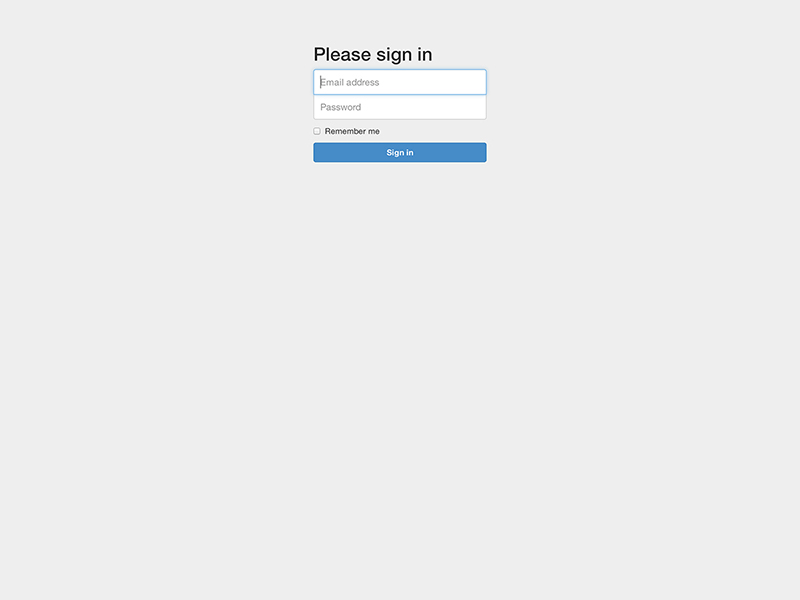
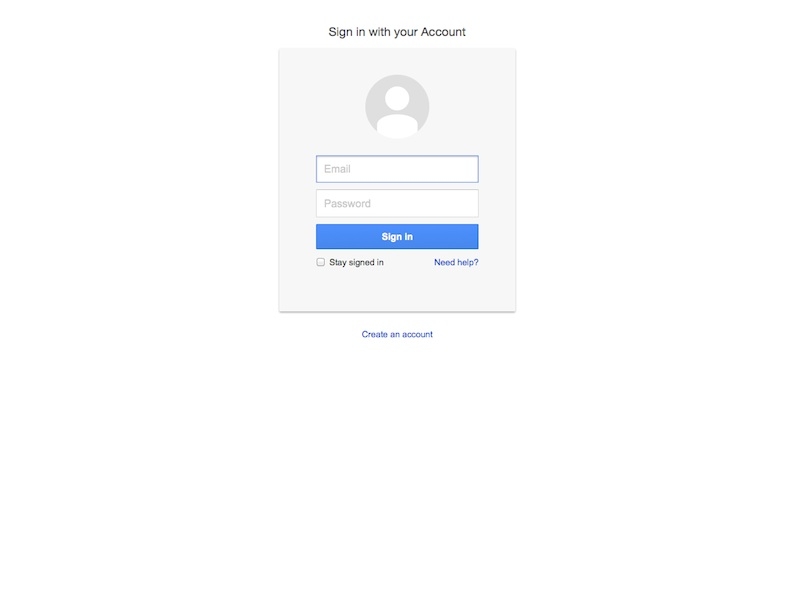
update the sign-in example
#117

Changed region(s): [[0.375, 0.03, 0.625, 0.3], [0.375, 0.36, 0.625, 0.45], [0.375, 0.51, 0.625, 0.57]]

diff --git a/examples/signin/index.html b/examples/signin/index.html
@@ -13,6 +13,9 @@
     <!-- Bootstrap core CSS -->
     <link href="../../dist/css/bootstrap.css" rel="stylesheet">
 
+    <!-- TODC Bootstrap core CSS -->
+    <link href="../../dist/css/todc-bootstrap.css" rel="stylesheet">
+
     <!-- Custom styles for this template -->
     <link href="signin.css" rel="stylesheet">
 
@@ -30,15 +33,28 @@
 
     <div class="container">
 
-      <form class="form-signin">
-        <h2 class="form-signin-heading">Please sign in</h2>
-        <input type="text" class="form-control" placeholder="Email address" required autofocus>
-        <input type="password" class="form-control" placeholder="Password" required>
-        <label class="checkbox">
-          <input type="checkbox" value="remember-me"> Remember me
-        </label>
-        <button class="btn btn-lg btn-primary btn-block" type="submit">Sign in</button>
-      </form>
+      <h2 class="form-signin-heading text-center">Sign in with your Account</h2>
+
+      <div class="card card-signin">
+        <img class="img-circle profile-img" src="avatar.png" alt="">
+        <form class="form-signin">
+          <input type="text" class="form-control" placeholder="Email" required autofocus>
+          <input type="password" class="form-control" placeholder="Password" required>
+          <button class="btn btn-lg btn-primary btn-block" type="submit">Sign in</button>
+
+          <div>
+            <a class="pull-right">Need help?</a>
+            <label class="checkbox">
+              <input type="checkbox" value="remember-me"> Stay signed in
+            </label>
+          </div>
+
+        </form>
+      </div>
+
+      <p class="text-center">
+        <a>Create an account</a>
+      </p>
 
     </div> <!-- /container -->
 

diff --git a/examples/signin/signin.css b/examples/signin/signin.css
@@ -1,7 +1,7 @@
 body {
   padding-top: 40px;
   padding-bottom: 40px;
-  background-color: #eee;
+  background-color: #fff;
 }
 
 .form-signin {
@@ -9,11 +9,14 @@ body {
   padding: 15px;
   margin: 0 auto;
 }
-.form-signin .form-signin-heading,
-.form-signin .checkbox {
-  margin-bottom: 10px;
+.form-signin-heading {
+  color: #555555;
+  font-size: 18px;
+  font-weight: 400;
+  margin: 0 0 15px;
 }
 .form-signin .checkbox {
+  margin-bottom: 10px;
   font-weight: normal;
 }
 .form-signin .form-control {
@@ -29,12 +32,30 @@ body {
   z-index: 2;
 }
 .form-signin input[type="text"] {
-  margin-bottom: -1px;
-  border-bottom-left-radius: 0;
-  border-bottom-right-radius: 0;
+  margin-bottom: 10px;
 }
 .form-signin input[type="password"] {
   margin-bottom: 10px;
-  border-top-left-radius: 0;
-  border-top-right-radius: 0;
+}
+.card {
+  background-color: #F7F7F7;
+  -webkit-border-radius: 2px;
+     -moz-border-radius: 2px;
+          border-radius: 2px;
+  -webkit-box-shadow: 0 2px 2px rgba(0, 0, 0, 0.3);
+     -moz-box-shadow: 0 2px 2px rgba(0, 0, 0, 0.3);
+          box-shadow: 0 2px 2px rgba(0, 0, 0, 0.3);
+  margin: 0 auto 25px;
+  padding: 20px 25px 30px;
+  width: 304px;
+}
+.card-signin {
+  padding: 40px;
+  width: 354px;
+}
+.card-signin .profile-img {
+  display: block;
+  height: 96px;
+  margin: 0 auto 10px;
+  width: 96px;
 }
